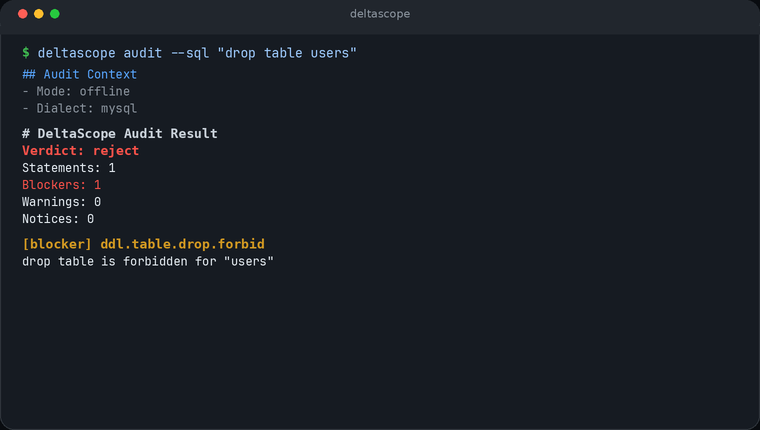
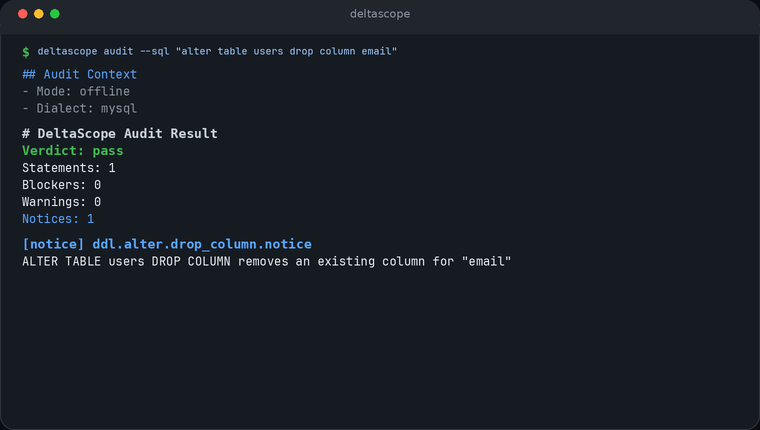
docs(readme): fix first-screen mode copy and use ALTER DDL GIF
State offline plus optional live metadata instead of offline-only.
Replace the DROP TABLE hero with a real MySQL ALTER TABLE DROP COLUMN
run (Verdict pass / ddl.alter.drop_column.notice).

diff --git a/README.md b/README.md
@@ -12,7 +12,7 @@
 [![Changelog](https://img.shields.io/badge/Changelog-informational)](CHANGELOG.md) [![Security](https://img.shields.io/badge/Security-important)](SECURITY.md) [![License](https://img.shields.io/badge/License-blue)](LICENSE) [![Release Notes](https://img.shields.io/badge/Release_Notes-success)](docs/releases/README.md)
 </div>
 
-Offline SQL audit for MySQL, TiDB, and PostgreSQL. Catch a `DELETE` without `WHERE` before it hits the database.
+SQL audit for MySQL, TiDB, and PostgreSQL — works offline, or connect to the database for metadata-aware review.
 
 <div align="center">
 <table>
@@ -24,13 +24,13 @@ Offline SQL audit for MySQL, TiDB, and PostgreSQL. Catch a `DELETE` without `WHE
     </td>
     <td align="center" valign="top" width="33%">
       <p><strong>DDL</strong></p>
-      <img src="docs/assets/deltascope-audit-ddl.gif" alt="deltascope audit --sql &quot;drop table users&quot; returns Verdict reject and blocker ddl.table.drop.forbid">
-      <p><code>drop table users</code></p>
+      <img src="docs/assets/deltascope-audit-ddl.gif" alt="deltascope audit --sql &quot;alter table users drop column email&quot; returns Verdict pass and notice ddl.alter.drop_column.notice">
+      <p><code>alter table users drop column email</code></p>
     </td>
     <td align="center" valign="top" width="33%">
       <p><strong>PostgreSQL</strong></p>
       <img src="docs/assets/deltascope-audit-pg.gif" alt="deltascope audit --dialect postgresql --sql &quot;alter table users drop column email&quot; returns Verdict review and warning ddl.pg.alter.drop_column.advisory">
-      <p><code>--dialect postgresql</code></p>
+      <p><code>--dialect postgresql</code><br><code>alter table users drop column email</code></p>
     </td>
   </tr>
 </table>
@@ -86,7 +86,7 @@ Claude Code and Codex one-liners, native `deltascope-mcp`, and connection setup:
 | [Yearning](https://github.com/cookieY/Yearning) / [SQLE](https://github.com/actiontech/sqle) | Work-order / pre-approval platforms with a UI |
 | [sqlfluff](https://github.com/sqlfluff/sqlfluff) | SQL linter and formatter |
 | [goInception](https://github.com/hanchuanchuan/goInception) | Chinese audit engine, often used behind [Archery](https://github.com/hhyo/Archery) |
-| **DeltaScope** | Offline CLI + CI + MCP. No ticket UI. No database required for the default path. |
+| **DeltaScope** | CLI + CI + MCP. No ticket UI. Works offline, or connect for live metadata. |
 
 ## Quick Start
 

diff --git a/README_ZH.md b/README_ZH.md
@@ -12,7 +12,7 @@
 [![变更记录](https://img.shields.io/badge/变更记录-informational)](CHANGELOG.md) [![安全策略](https://img.shields.io/badge/安全策略-important)](SECURITY.md) [![许可证](https://img.shields.io/badge/许可证-blue)](LICENSE) [![发行说明](https://img.shields.io/badge/发行说明-success)](docs/releases/README.md)
 </div>
 
-面向 MySQL、TiDB、PostgreSQL 的离线 SQL 审核。在没有 `WHERE` 的 `DELETE` 落库之前拦下来。
+面向 MySQL、TiDB、PostgreSQL 的 SQL 审核。离线就能跑，也能连库拿元数据。
 
 <div align="center">
 <table>
@@ -24,13 +24,13 @@
     </td>
     <td align="center" valign="top" width="33%">
       <p><strong>DDL</strong></p>
-      <img src="docs/assets/deltascope-audit-ddl.gif" alt="deltascope audit --sql &quot;drop table users&quot; 返回 Verdict reject，以及 blocker ddl.table.drop.forbid">
-      <p><code>drop table users</code></p>
+      <img src="docs/assets/deltascope-audit-ddl.gif" alt="deltascope audit --sql &quot;alter table users drop column email&quot; 返回 Verdict pass，以及 notice ddl.alter.drop_column.notice">
+      <p><code>alter table users drop column email</code></p>
     </td>
     <td align="center" valign="top" width="33%">
       <p><strong>PostgreSQL</strong></p>
       <img src="docs/assets/deltascope-audit-pg.gif" alt="deltascope audit --dialect postgresql --sql &quot;alter table users drop column email&quot; 返回 Verdict review，以及 warning ddl.pg.alter.drop_column.advisory">
-      <p><code>--dialect postgresql</code></p>
+      <p><code>--dialect postgresql</code><br><code>alter table users drop column email</code></p>
     </td>
   </tr>
 </table>
@@ -84,7 +84,7 @@ Claude Code / Codex 一行命令、原生 `deltascope-mcp` 和连接配置见 [M
 | [Yearning](https://github.com/cookieY/Yearning) / [SQLE](https://github.com/actiontech/sqle) | 工单 / 事前审核平台，带 UI |
 | [sqlfluff](https://github.com/sqlfluff/sqlfluff) | SQL 检查与格式化 |
 | [goInception](https://github.com/hanchuanchuan/goInception) | 中文审核引擎，常见于 [Archery](https://github.com/hhyo/Archery) 后端 |
-| **DeltaScope** | 离线 CLI + CI + MCP。没有工单 UI。默认路径不需要数据库。 |
+| **DeltaScope** | CLI + CI + MCP。没有工单 UI。离线就能跑，也能连库拿元数据。 |
 
 ## 快速开始
 
